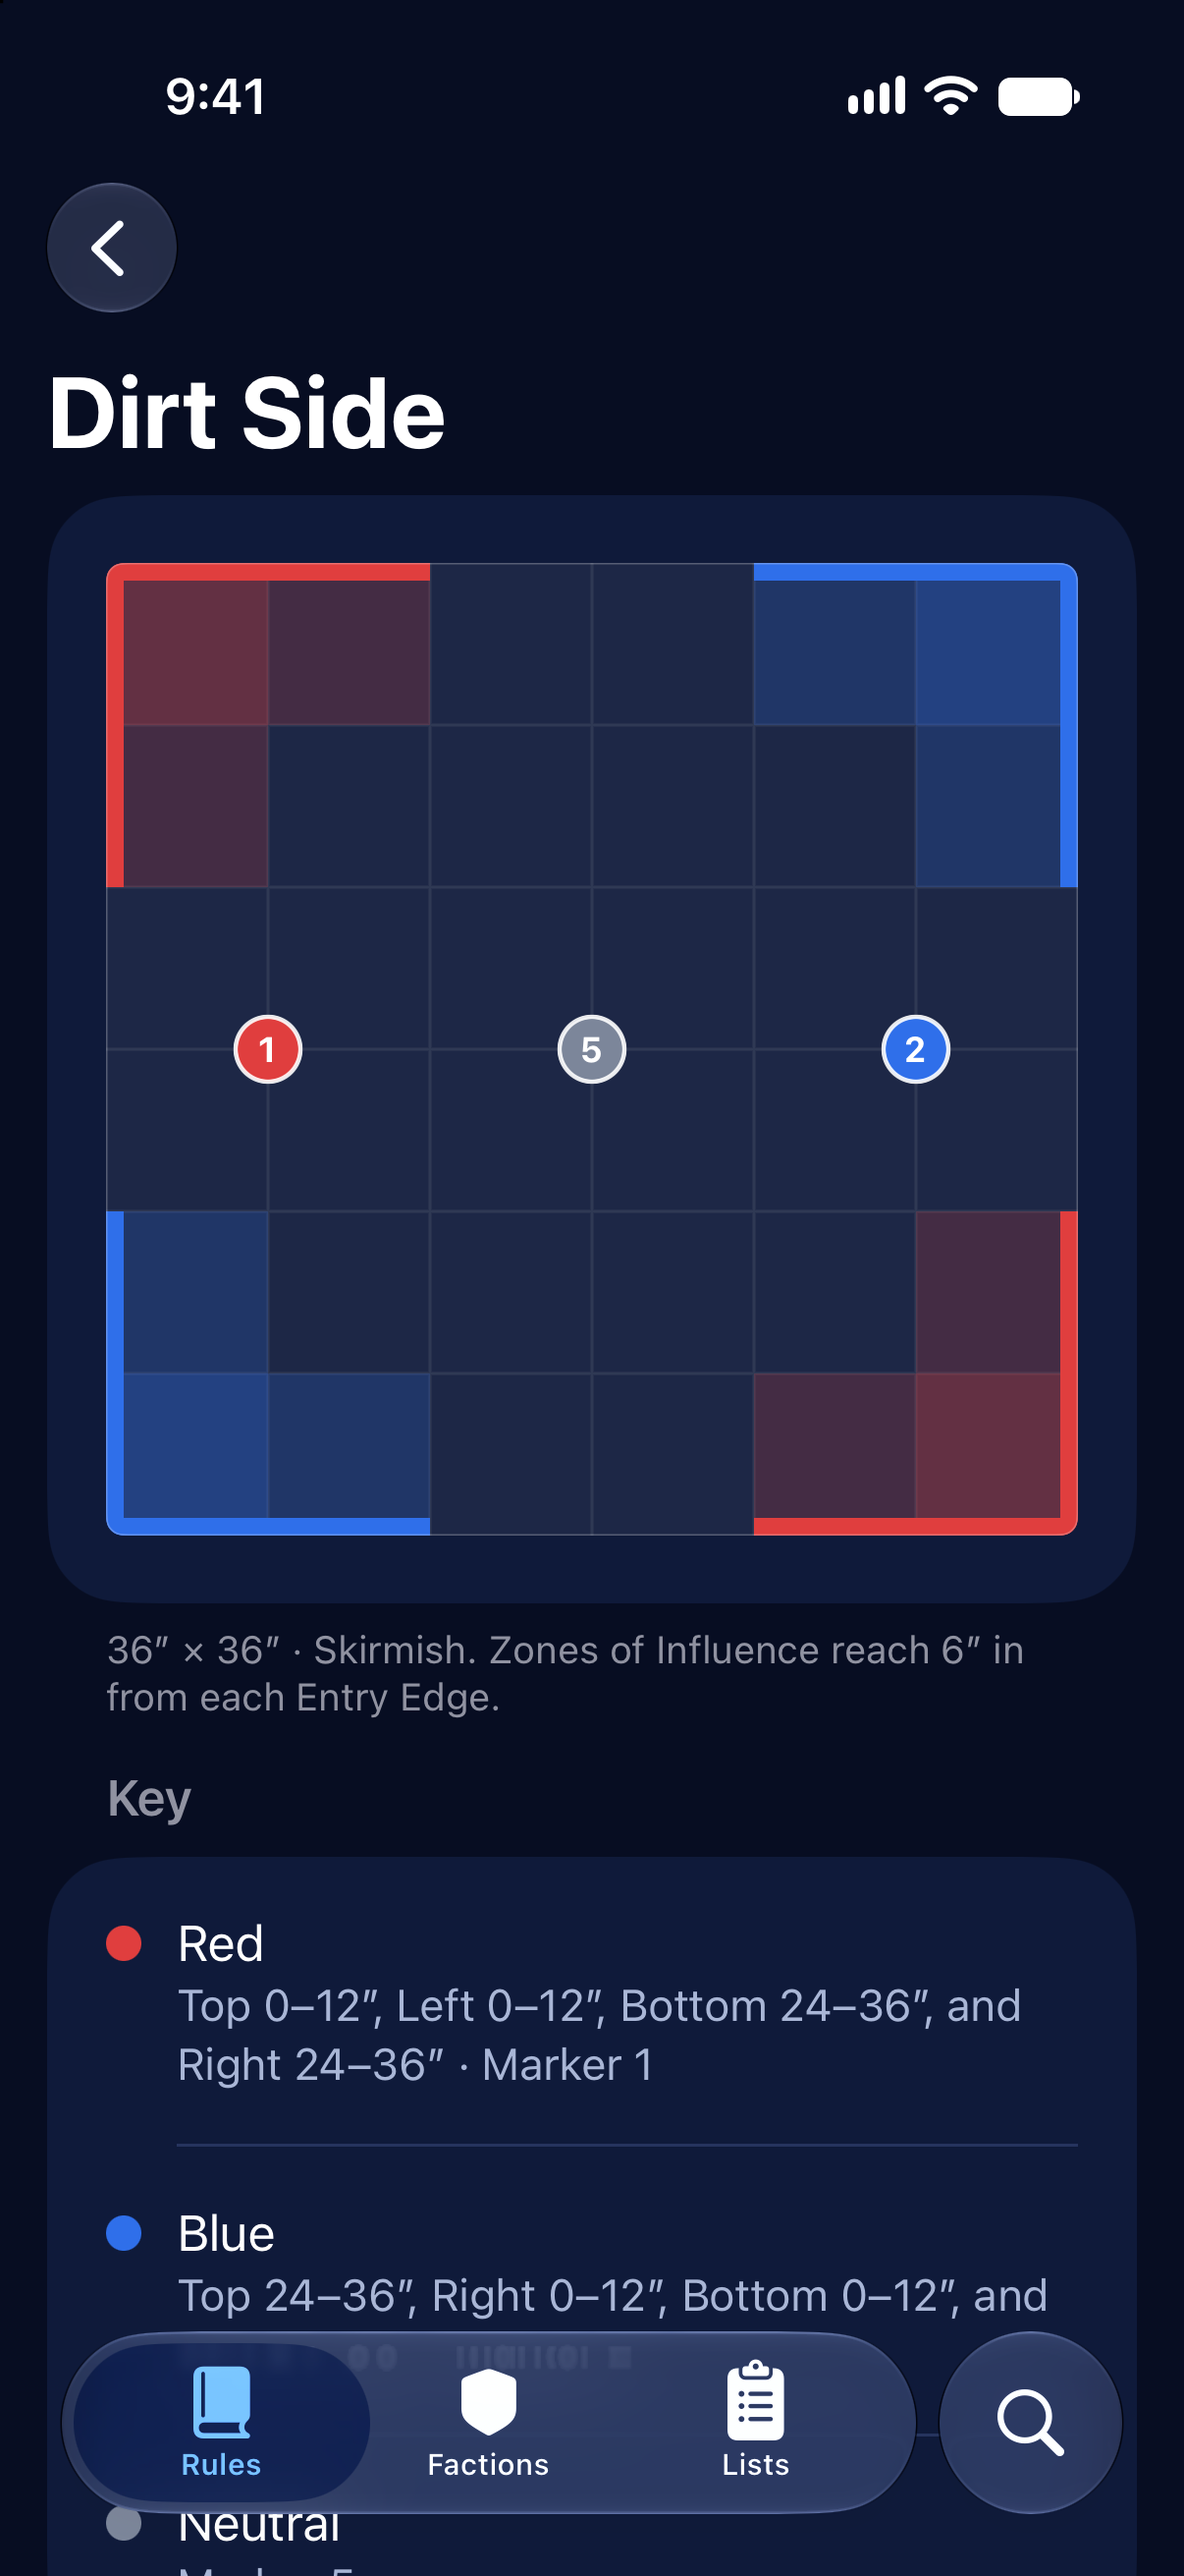
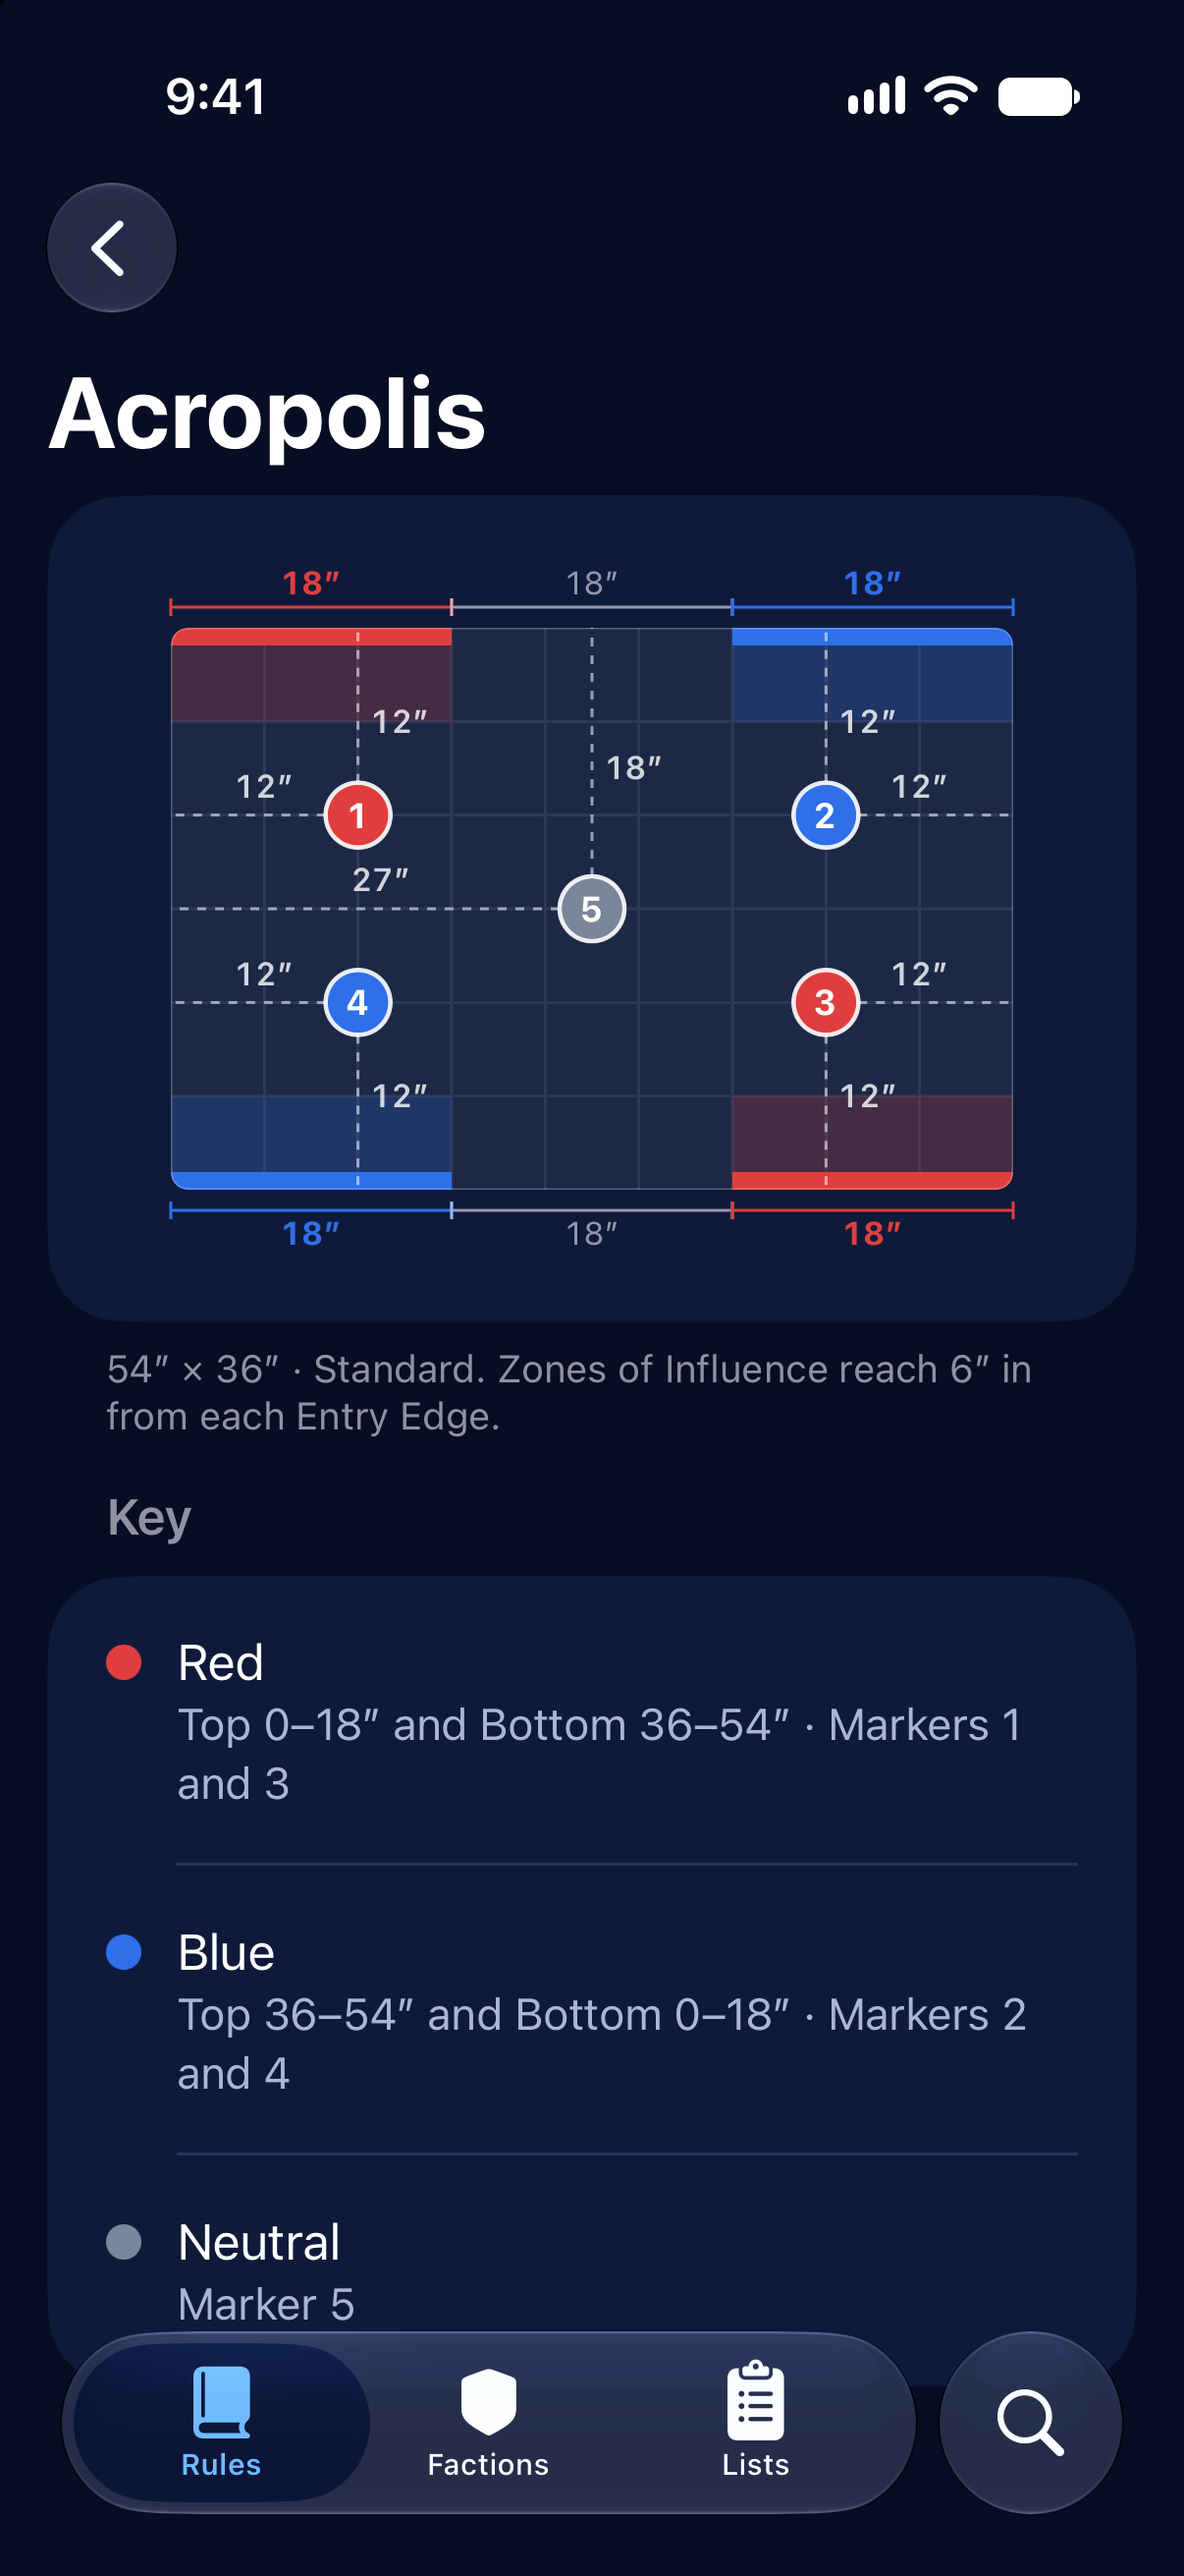
Show Android and tablet layouts and refresh mission and deployment captures

diff --git a/index.html b/index.html
@@ -28,7 +28,7 @@
         <p class="intro">Less time looking things up.<br>More time at the table.</p>
         <p class="hero-description">Lodestar brings army building, unit references, and game rules together for <strong>StarCraft: The Miniatures Game.</strong></p>
         <div class="hero-actions"><a class="button" href="#testing">Help test Lodestar <span aria-hidden="true">↗</span></a><a class="text-link" href="#inside">Take a closer look <span aria-hidden="true">↓</span></a></div>
-        <p class="platforms">iPhone <span>·</span> iPad <span>·</span> Mac <span>·</span> Android</p>
+        <p class="platforms">iPhone <span>·</span> iPad <span>·</span> Mac <span>·</span> Android phones &amp; tablets</p>
       </div>
       <div class="hero-art">
         <div class="orbit orbit-one" aria-hidden="true"></div><div class="orbit orbit-two" aria-hidden="true"></div>
@@ -44,9 +44,28 @@
       <div class="features">
         <article class="feature"><div class="feature-copy"><span class="number">01 / BUILD</span><h3>Make every slot count.</h3><p>Put your force together with units and cards, and keep minerals, gas, and faction slots in view as your list takes shape.</p></div><a class="screen-link" href="assets/army-list.png" aria-label="Open full-size army list screenshot"><div class="phone"><img src="assets/army-list.png" width="1206" height="2622" loading="lazy" alt="Army list showing Raynor’s Raiders, resource totals, and unit slots."></div><span>Army lists <span aria-hidden="true">↗</span></span></a></article>
         <article class="feature"><div class="feature-copy"><span class="number">02 / REFERENCE</span><h3>The answer, at hand.</h3><p>Check unit stats, squad sizes, upgrades, and abilities. Browse the rules when you need to settle your next move.</p></div><a class="screen-link" href="assets/unit.png" aria-label="Open full-size unit reference screenshot"><div class="phone"><img src="assets/unit.png" width="1206" height="2622" loading="lazy" alt="Marauder unit reference showing characteristics, squad sizes, and upgrades."></div><span>Unit reference <span aria-hidden="true">↗</span></span></a></article>
-        <article class="feature"><div class="feature-copy"><span class="number">03 / DEPLOY</span><h3>See the bigger picture.</h3><p>Explore missions and deployment layouts, with maps and reference details to help you set up your next battle.</p></div><a class="screen-link" href="assets/deployment.png" aria-label="Open full-size deployment screenshot"><div class="phone"><img src="assets/deployment.png" width="1206" height="2622" loading="lazy" alt="Dirt Side deployment map with red and blue zones and numbered mission markers."></div><span>Deployment maps <span aria-hidden="true">↗</span></span></a></article>
+        <article class="feature"><div class="feature-copy"><span class="number">03 / MISSION</span><h3>Know the objective.</h3><p>Check starting supply, round limits, mission parameters, and scoring before the first move.</p></div><a class="screen-link" href="assets/mission.png" aria-label="Open full-size mission screenshot"><div class="phone"><img src="assets/mission.png" width="1206" height="2622" loading="lazy" alt="Supply Drop mission on iPhone, with Standard game size, supply, round count, parameters, and scoring."></div><span>Mission details <span aria-hidden="true">↗</span></span></a></article>
+        <article class="feature"><div class="feature-copy"><span class="number">04 / DEPLOY</span><h3>See the bigger picture.</h3><p>Set up the battlefield with deployment maps, marked distances, entry edges, and mission marker positions.</p></div><a class="screen-link" href="assets/deployment.png" aria-label="Open full-size deployment screenshot"><div class="phone"><img src="assets/deployment.png" width="1206" height="2622" loading="lazy" alt="Acropolis deployment map with distance labels, red and blue entry edges, and numbered mission markers."></div><span>Deployment maps <span aria-hidden="true">↗</span></span></a></article>
       </div>
       <p class="screenshot-note">Actual iPhone screenshots from a development build. The app is still evolving.</p>
+    </section>
+    <section class="devices wrap" id="devices" aria-labelledby="devices-title">
+      <div class="section-heading"><div><p class="eyebrow">PHONE IN YOUR POCKET. TABLET AT THE TABLE.</p><h2 id="devices-title">At home on your screen.</h2></div><p>Explore Lodestar on Android phones,<br>Android tablets, and iPad.</p></div>
+      <div class="device-gallery">
+        <figure class="device-card">
+          <a class="device-image" href="assets/android-phone.png" aria-label="Open full-size Android phone screenshot"><img src="assets/android-phone.png" width="1080" height="2400" loading="lazy" alt="Lodestar on an Android phone showing Raynor’s Raiders, resource totals, and the unit roster."></a>
+          <figcaption><h3>Android phone <span aria-hidden="true">↗</span></h3><p>Your army list, close at hand.</p></figcaption>
+        </figure>
+        <figure class="device-card">
+          <a class="device-image" href="assets/ipad.png" aria-label="Open full-size iPad screenshot"><img src="assets/ipad.png" width="2064" height="2752" loading="lazy" alt="Lodestar on iPad with sidebar navigation beside the Hyperion Strike Force army list."></a>
+          <figcaption><h3>iPad <span aria-hidden="true">↗</span></h3><p>More room for your roster.</p></figcaption>
+        </figure>
+        <figure class="device-card">
+          <a class="device-image" href="assets/android-tablet.png" aria-label="Open full-size Android tablet screenshot"><img src="assets/android-tablet.png" width="2560" height="1600" loading="lazy" alt="Lodestar on an Android tablet in landscape, with rules navigation beside the Gauntlet deployment map."></a>
+          <figcaption><h3>Android tablet <span aria-hidden="true">↗</span></h3><p>A wider view of the battlefield.</p></figcaption>
+        </figure>
+      </div>
+      <p class="screenshot-note">Actual Android phone, iPad, and Android tablet screenshots from development builds.</p>
     </section>
     <section class="testing wrap" id="testing" aria-labelledby="testing-title">
       <div class="testing-copy"><p class="eyebrow">HELP SHAPE WHAT COMES NEXT</p><h2 id="testing-title">Your next mission:<br><span>put it to the test.</span></h2><p>Lodestar is in development. Join the testing list to try it out and help make it a better companion for game night.</p><p class="small">Signing up registers your interest. Testing access is sent separately.</p></div>

diff --git a/styles.css b/styles.css
@@ -334,8 +334,8 @@ h2 {
 }
 .features {
   display:grid;
-  grid-template-columns:repeat(3,minmax(0,1fr));
-  gap:42px;
+  grid-template-columns:repeat(4,minmax(0,1fr));
+  gap:24px;
 }
 .number {
   font:11px ui-monospace,monospace;
@@ -343,6 +343,7 @@ h2 {
   color:var(--azure);
 }
 .feature h3 {
+  min-height: 54px;
   font-size:22px;
   letter-spacing:-.025em;
   margin:15px 0 12px;
@@ -350,12 +351,12 @@ h2 {
 .feature-copy p {
   color:var(--muted);
   font-size:14px;
-  min-height:94px;
+  min-height:116px;
   margin-bottom:30px;
 }
 .screen-link {
   display:block;
-  padding:28px 27px 18px;
+  padding:22px 16px 18px;
   background:linear-gradient(150deg,#16264c,#0d1733);
   border:1px solid #26345e;
   border-radius:12px;
@@ -385,6 +386,57 @@ h2 {
   font-size:11px;
   text-align:center;
   margin:24px 0 0;
+}
+.devices {
+  border-top: 1px solid var(--line);
+  padding-block: 80px;
+}
+.device-gallery {
+  display: grid;
+  grid-template-columns: .65fr 1fr 1.5fr;
+  gap: 28px;
+  align-items: end;
+}
+.device-card {
+  min-width: 0;
+  margin: 0;
+}
+.device-image {
+  display: flex;
+  align-items: end;
+  justify-content: center;
+  height: 400px;
+  padding-bottom: 24px;
+}
+.device-image img {
+  width: auto;
+  max-height: 100%;
+  border: 4px solid #26345e;
+  border-radius: 16px;
+  box-shadow: 0 15px 35px #0005;
+  transition: border-color .2s;
+}
+.device-image:hover img {
+  border-color: var(--azure);
+}
+.device-card figcaption {
+  border-top: 1px solid var(--line);
+  padding-top: 20px;
+}
+.device-card h3 {
+  display: flex;
+  justify-content: space-between;
+  gap: 8px;
+  font-size: 16px;
+  margin-bottom: 8px;
+}
+.device-card h3 span {
+  color: var(--azure);
+}
+.device-card p {
+  font-size: 13px;
+  color: var(--muted);
+  margin-bottom: 0;
 }
 .testing {
   border-top:1px solid var(--line);
@@ -516,7 +568,8 @@ footer>p {
     gap:20px;
   }
   .features {
-    gap:22px;
+    grid-template-columns:repeat(2,minmax(0,1fr));
+    gap:36px;
   }
   .screen-link {
     padding:20px 15px 16px;
@@ -540,6 +593,21 @@ footer>p {
   }
 }
 @media(max-width:700px) {
+  .devices {
+    padding-block: 58px;
+  }
+  .device-gallery {
+    grid-template-columns: 1fr;
+    gap: 40px;
+    max-width: 440px;
+    margin-inline: auto;
+  }
+  .device-image {
+    height: auto;
+  }
+  .device-image img {
+    max-height: 480px;
+  }
   .wrap {
     width:calc(100% - 40px);
   }
@@ -656,6 +724,7 @@ footer>p {
     margin-bottom:22px;
   }
   .feature h3 {
+    min-height: 0;
     font-size:25px;
   }
   .screen-link {

diff --git a/README.md b/README.md
@@ -34,4 +34,12 @@ The files use relative asset URLs and have no hosting-specific runtime. They can
 
 ## Assets
 
-Brand SVGs come from Lodestar's `brand/` directory. Screenshots are actual iPhone captures from the app-store asset work (`play-store-visual-assets-b32787/brand/app-store/raw-iphone/{list,unit,deployment}.png`). They are labeled as development screenshots on the page. Replace with new captures at the same dimensions as the app evolves.
+Brand SVGs come from Lodestar's `brand/` directory. All screenshots are actual app captures, labeled as development builds on the page. Each image links to its full-size file and retains its original aspect ratio.
+
+- `army-list.png`, `unit.png`: iPhone captures from `play-store-visual-assets-b32787/brand/app-store/raw-iphone/`.
+- `android-phone.png`: Android phone list from `play-store-visual-assets-b32787/brand/play-store/raw/list.png`.
+- `ipad.png`: iPad list from `play-store-visual-assets-b32787/brand/app-store/raw-ipad/list.png`.
+- `mission.png`, `deployment.png`: fresh November 3, 2026 captures on Store iPhone 17 Pro, built from iOS revision `d9d8de3` (deployment-distance work, matching the merged rules implementation). Shows Supply Drop in Standard mode and Acropolis with measured distances. Captured at 1206 × 2622 using `simctl io screenshot`.
+- `android-tablet.png`: fresh November 3, 2026 capture of Gauntlet with measured distances from Android revision `b331d56`. Generated on an isolated 2560 × 1600 Android 35 tablet using the existing `RulesGamePagesTest#deploymentIndexOpensAScaledMapAndCompleteSpokenKey` screenshot test, which passed. The test renders the production Rules screen and saves its Compose content; it omits system chrome.
+
+Replace with new captures as the app evolves. Screenshot source worktrees are in the Lodestar repository under `.claude/worktrees/`.
